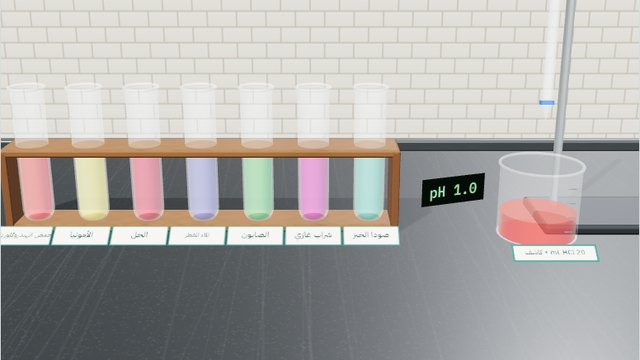
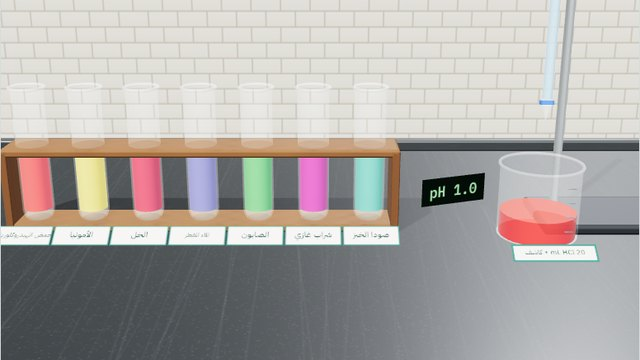
تجارب ثاني متوسط: سوائل ملوّنة واضحة بدل الشفافة، وإظهار السكر غير الذائب والبلورات
Claude-Session: https://claude.ai/code/session_01NyLPbdMt9tKVxRtmHnQprV

diff --git a/lab/lab3d-pro.js b/lab/lab3d-pro.js
@@ -2050,16 +2050,19 @@ TB.forEach(tb=>setRust(tb.k,0));sync();render();renderNB();
    ١٧) الذائبية والمحاليل المشبعة وفوق المشبعة (المخاليط والمحاليل)
    ١٨) الكاشف الطبيعي والتعادل (المحاليل الحمضية والقاعدية)
    ===================================================================== */
+const VIV=(c,op=.93)=>new THREE.MeshStandardMaterial({color:$lc(c),emissive:$lc(c),emissiveIntensity:.18,roughness:.22,transparent:true,opacity:op,depthWrite:false});
+const vset=(m,h)=>{m.color.copy($lc(h));if(m.emissive)m.emissive.copy(m.color);};
+function vivTube(t){t.g.traverse(x=>{if(x.isMesh&&x.material===G.glassT)x.material=G.glass;if(x.isMesh&&x.material===t.lm){x.material=VIV(0xd6ecf5,.6);t.lm=x.material;}});return t;}
 function Beaker(r=.34,h=.62,o={}){const g=new THREE.Group();
   const gl=new THREE.Mesh(new THREE.CylinderGeometry(r,r,h,40,1,true),G.glass);gl.position.y=h/2;gl.renderOrder=3;
   const bt=new THREE.Mesh(new THREE.CircleGeometry(r,40),G.glassS);bt.rotation.x=-Math.PI/2;bt.position.y=.004;
   const lip=new THREE.Mesh(new THREE.TorusGeometry(r+.004,.012,8,40),G.glassS);lip.rotation.x=Math.PI/2;lip.position.y=h;
-  const lm=G.water(o.col||0xbfe2f0,o.op||.5);const liq=new THREE.Mesh(new THREE.CylinderGeometry(r*.95,r*.95,1,36),lm);liq.renderOrder=1;liq.visible=false;
+  const lm=VIV(o.col||0x6fb8e0,o.op||.9);const liq=new THREE.Mesh(new THREE.CylinderGeometry(r*.95,r*.95,1,36),lm);liq.renderOrder=1;liq.visible=false;
   g.add(gl,bt,lip,liq);
   for(let i=1;i<=4;i++){const t=new THREE.Mesh(new THREE.BoxGeometry(.06,.006,.004),KIT.mat(0x5d6d73));t.position.set(r*.55,h*i/5,r*.84);g.add(t);}
   const set=lv=>{liq.visible=lv>.003;liq.scale.y=Math.max(.001,lv);liq.position.y=lv/2+.006;};
   return {g,lm,set,r,h,liq};}
-function Drops(L,n=26,col=0x8fd0ee,size=.018){const im=new THREE.InstancedMesh(new THREE.SphereGeometry(size,8,6),G.water(col,.85),n);im.count=0;im.frustumCulled=false;L.add(im);
+function Drops(L,n=26,col=0x8fd0ee,size=.018){const im=new THREE.InstancedMesh(new THREE.SphereGeometry(size,8,6),VIV(col,.95),n);im.count=0;im.frustumCulled=false;L.add(im);
   const d=new THREE.Object3D();let on=false,src=V(0,0,0),dst=0,t0=0;
   P3.loop(L,(dt,s)=>{if(!on){im.count=0;return;}im.count=n;for(let i=0;i<n;i++){const p=((s-t0)*1.6+i/n)%1;d.position.set(src.x+Math.sin(i*7)*.02,src.y-(src.y-dst)*p,src.z+Math.cos(i*5)*.02);d.scale.set(1,1.5,1);d.updateMatrix();im.setMatrixAt(i,d.matrix);}im.instanceMatrix.needsUpdate=true;});
   return {start:(p,y)=>{src=p.clone();dst=y;on=true;t0=performance.now()/1000;},stop:()=>{on=false;}};}
@@ -2113,7 +2116,7 @@ function hState(k,w){return k==='a'?[1-Math.min(1,w/3.3),Math.min(1,Math.max(0,(
 // إبريق الري
 const can=new THREE.Group();{const b=new THREE.Mesh(new THREE.CylinderGeometry(.16,.18,.3,24),KIT.phys(0x2f8f6b));b.position.y=.15;const sp=new THREE.Mesh(new THREE.CylinderGeometry(.018,.03,.42,10),KIT.phys(0x2f8f6b));sp.rotation.z=-1.0;sp.position.set(.28,.22,0);
   const hd=new THREE.Mesh(new THREE.TorusGeometry(.1,.018,8,20,Math.PI),KIT.phys(0x2f8f6b));hd.position.set(-.1,.3,0);hd.rotation.z=.6;can.add(b,sp,hd);castAll(can);}
-const CAN_HOME=V(2.4,0,.6);can.position.copy(CAN_HOME);L.add(can);const drops=Drops(L,22);
+const CAN_HOME=V(2.4,0,.6);can.position.copy(CAN_HOME);L.add(can);const drops=Drops(L,22,0x3f9fe0,.022);
 async function water(i){const o=P[PL[i].k];await L.arc(can,V(o.x-.55,.95,.35),700,1.4);await L.tw(250,k=>can.rotation.z=-.7*k);drops.start(V(o.x-.18,1.05,.35),.46);
   o.soil.material.color.copy($lc(0x2e2016));await sleep(650);drops.stop();await L.tw(250,k=>can.rotation.z=-.7*(1-k));}
 async function setW(i){if(S.busy||S.set[i])return;S.busy=true;sync();await water(i);await L.arc(can,CAN_HOME,600,1.4);S.set[i]=1;S.busy=false;P3.click();
@@ -2256,13 +2259,13 @@ const toast=m=>L.toast(m);
 const hp=new THREE.Group();{const b=new THREE.Mesh(RBox(.95,.16,.8,.04),KIT.mat(0xe9ecee,{roughness:.4}));b.position.y=.08;const p=new THREE.Mesh(new THREE.CylinderGeometry(.36,.36,.02,32),KIT.mat(0x30363c,{metalness:.5}));p.position.y=.17;
   const k=new THREE.Mesh(new THREE.CylinderGeometry(.05,.05,.04,16),KIT.mat(0x1f2933));k.rotation.x=Math.PI/2;k.position.set(.3,.08,.41);hp.add(b,p,k);hp.userData.p=p;castAll(hp);}
 hp.position.set(0,0,.4);L.add(hp);
-const BK=Beaker(.32,.6);BK.g.position.set(0,.18,.4);BK.set(.3);L.add(BK.g);
+const BK=Beaker(.32,.6,{op:.55});BK.g.position.set(0,.18,.4);BK.set(.3);L.add(BK.g);
 const card=P3.card([{t:'100 جم ماء',s:64}],.5,.16);card.position.set(0,.06,1.05);card.rotation.x=-.9;L.add(card);
 const th=new THREE.Group();{const t=new THREE.Mesh(new THREE.CylinderGeometry(.012,.012,.9,10),G.glassS);t.position.y=.45;const r=new THREE.Mesh(new THREE.CylinderGeometry(.006,.006,1,8),KIT.mat(0xd62d20));th.userData.r=r;const bl=new THREE.Mesh(new THREE.SphereGeometry(.02,12,8),KIT.mat(0xd62d20));bl.position.y=.02;th.add(t,r,bl);}
 th.position.set(.15,.2,.35);th.rotation.z=-.12;L.add(th);
 const setTh=T=>{const h=.15+.6*T/100;th.userData.r.scale.y=h;th.userData.r.position.y=h/2;};
-const pile=new THREE.Mesh(new THREE.ConeGeometry(.2,.1,24),KIT.mat(0xfbfbf7,{roughness:.9}));pile.position.set(0,.24,.4);pile.visible=false;L.add(pile);
-const CR=new THREE.InstancedMesh(new THREE.BoxGeometry(.03,.03,.03),KIT.phys(0xffffff,{roughness:.15,transparent:true,opacity:.9}),40);CR.count=0;CR.position.set(0,.18,.4);L.add(CR);
+const pile=new THREE.Mesh(new THREE.ConeGeometry(.2,.1,24),KIT.mat(0xfbfbf7,{roughness:.9}));pile.position.set(0,.24,.4);pile.visible=false;pile.renderOrder=2;L.add(pile);
+const CR=new THREE.InstancedMesh(new THREE.BoxGeometry(.03,.03,.03),KIT.phys(0xffffff,{roughness:.15,transparent:true,opacity:.9}),40);CR.count=0;CR.renderOrder=2;CR.position.set(0,.18,.4);L.add(CR);
 const spoon=new THREE.Group();{const h=new THREE.Mesh(new THREE.CylinderGeometry(.012,.012,.5,8),M.steel);h.rotation.z=Math.PI/2;h.position.x=.25;const b=new THREE.Mesh(new THREE.SphereGeometry(.06,16,10,0,Math.PI*2,Math.PI/2,Math.PI/2),M.steel);const s=new THREE.Mesh(new THREE.SphereGeometry(.05,12,8),KIT.mat(0xffffff,{roughness:.9}));s.scale.y=.4;s.position.y=-.01;spoon.add(h,b,s);spoon.userData.s=s;castAll(spoon);}
 const SP_HOME=V(-1.1,.3,.7);spoon.position.copy(SP_HOME);L.add(spoon);
 const jar=new THREE.Group();{const j=new THREE.Mesh(new THREE.CylinderGeometry(.18,.18,.36,24),KIT.phys(0xf5f5f0,{transparent:true,opacity:.6}));j.position.y=.18;const s=new THREE.Mesh(new THREE.CylinderGeometry(.17,.17,.28,24),KIT.mat(0xffffff,{roughness:.95}));s.position.y=.14;const l=new THREE.Mesh(new THREE.CylinderGeometry(.19,.19,.05,24),KIT.mat(0x2f6fb2));l.position.y=.38;jar.add(j,s,l);castAll(jar);}
@@ -2271,7 +2274,7 @@ function state(){const cap=sol(S.temp);const dis=S.seed?S.added-S.cry:(S.sup&&S.
   const st=S.added===0?'غير مشبع':(S.sup&&S.cool&&!S.seed&&S.added>cap+1)?'فوق مشبع':(und>.5||Math.abs(dis-cap)<1)?'مشبع':'غير مشبع';return {cap,dis,und,st};}
 function hud(){const s=state();sec.$('.slT').textContent=Math.round(S.temp)+' °C';sec.$('.slA').textContent=S.added+' g';sec.$('.slD').textContent=Math.round(s.dis)+' g';sec.$('.slS').textContent=s.st;
   pile.visible=s.und>.5&&!S.seed;if(pile.visible){const k=Math.sqrt(s.und/50);pile.scale.set(k,k,k);pile.position.y=.19+.05*k;}
-  setCol(BK.lm,mixHex(0xbfe2f0,0xf3f1e6,Math.min(1,s.dis/300)));setTh(S.temp);
+  vset(BK.lm,mixHex(0x3f9bd8,0xc99a3e,Math.min(1,s.dis/300)));setTh(S.temp);
   sec.$('.slChart').innerHTML=KIT.chart({w:330,h:200,xl:'درجة الحرارة (°س)',yl:'جم/100 جم ماء',xmin:0,xmax:100,ymin:0,ymax:500,series:[{c:'var(--brand)',name:'منحنى الذائبية',pts:CURVE},{c:'#e0473c',name:'محلولك',pts:[[S.temp,Math.round(s.dis)]],dots:true}]});}
 function rec(lbl){const s=state();S.rows.push([lbl,String(Math.round(S.temp)),String(S.added),String(Math.round(s.dis)),s.st]);renderNB();}
 async function add(){if(S.busy||S.added>=250||S.heat)return;S.busy=true;sync();await L.arc(spoon,V(-1.25,.55,.35),500,.7);spoon.userData.s.visible=true;await L.arc(spoon,V(-.12,.95,.4),700,1.1);
@@ -2323,34 +2326,34 @@ const sec=P3.section('cab8',{title:'الكاشف الطبيعي (الملفوف 
   report:()=>({title:'الكاشف الطبيعي والتعادل',grade:'ثاني متوسط',lesson:'المحاليل الحمضية والمحاليل القاعدية',cols:['المحلول','لون الكاشف','التصنيف'],
     rows:SOLS.map((s,i)=>[s.n,S.drops[i]?CABC[s.c][1].replace(/^/,''):'',S.drops[i]?(s.c<3?'حمضي':s.c>3?'قاعدي':'متعادل'):'']),note:'رتّب المحاليل من الأشد حمضية إلى الأشد قاعدية.'})
 });
-const L=new Lab(sec,{target:V(.1,.55,.45),dist:a=>Math.max(4.2,7.0/a),exposure:.95});buildRoom(L);
+const L=new Lab(sec,{target:V(-.2,.55,.45),dist:a=>Math.max(4.3,7.1/a),exposure:.95});buildRoom(L);
 const toast=m=>L.toast(m);
 const rack=new THREE.Group();{const t=new THREE.Mesh(RBox(3.0,.06,.36,.02),KIT.wood(0x9b6a3c));t.position.y=.62;const b=new THREE.Mesh(RBox(3.0,.06,.36,.02),KIT.wood(0x9b6a3c));b.position.y=.03;rack.add(t,b);[-1.47,1.47].forEach(x=>{const s=new THREE.Mesh(RBox(.06,.62,.36,.01),KIT.wood(0x8a5a32));s.position.set(x,.33,0);rack.add(s);});castAll(rack);}
 rack.position.set(-.8,0,.25);L.add(rack);
-const TT=SOLS.map((s,i)=>{const x=-2.1+i*.43,t=TestTube(.12,.95);t.g.position.set(x,.14,.25);t.seg(0,.45);setCol(t.lm,s.n==='الصابون'?0xeef0ff:0xe6f3f8);t.lm.opacity=.5;L.add(t.g);
+const TT=SOLS.map((s,i)=>{const x=-2.1+i*.43,t=vivTube(TestTube(.12,.95));t.g.position.set(x,.14,.25);t.seg(0,.45);vset(t.lm,s.n==='الصابون'?0xe9ecf7:0xd6ecf5);t.lm.opacity=.6;L.add(t.g);
   const c=P3.card([{t:s.n,s:s.n.length>10?62:80}],.42,.17);c.position.set(x,.05,.62);c.rotation.x=-.95;L.add(c);L.onTap(t.g,()=>tapTube(i));return {t,x};});
 const dropper=new THREE.Group();{const g=new THREE.Mesh(new THREE.CylinderGeometry(.02,.012,.3,12),G.glassS);g.position.y=.15;const b=new THREE.Mesh(new THREE.SphereGeometry(.045,14,10),KIT.mat(0x2b2b2b));b.position.y=.33;b.scale.y=1.4;dropper.add(g,b);castAll(dropper);}
 const DR_HOME=V(-2.6,.6,.95);dropper.position.copy(DR_HOME);L.add(dropper);
 const bottle=Beaker(.12,.3,{col:0x5b2a86,op:.85});bottle.set(.22);bottle.g.position.set(-2.6,0,.95);L.add(bottle.g);const bc=P3.card([{t:'عصير الملفوف',s:50}],.42,.12);bc.position.set(-2.6,.05,1.2);bc.rotation.x=-.9;L.add(bc);
 const drops=Drops(L,12,0x6b2fa0,.014);
 // التعادل
-const NB=Beaker(.3,.55);NB.g.position.set(1.75,0,.45);NB.set(.18);setCol(NB.lm,CABC[0][0]);NB.lm.opacity=.7;L.add(NB.g);
+const NB=Beaker(.3,.55);NB.g.position.set(1.75,0,.45);NB.set(.18);vset(NB.lm,CABC[0][0]);L.add(NB.g);
 const nc=P3.card([{t:'20 mL HCl + كاشف',s:44}],.6,.14);nc.position.set(1.75,.05,.95);nc.rotation.x=-.9;L.add(nc);
 const ST=KIT.stand(2.2);ST.position.set(2.35,0,.15);L.add(ST);
 const bur=new THREE.Group();{const t=new THREE.Mesh(new THREE.CylinderGeometry(.04,.04,1.1,16,1,true),G.glass);t.position.y=.55;t.renderOrder=3;const tip=new THREE.Mesh(new THREE.ConeGeometry(.04,.12,16),G.glassS);tip.rotation.x=Math.PI;tip.position.y=-.06;
-  const lm=G.water(0xd8eef8,.6);const lq=new THREE.Mesh(new THREE.CylinderGeometry(.035,.035,1,14),lm);bur.userData.lq=lq;const v=new THREE.Mesh(new THREE.BoxGeometry(.1,.03,.03),KIT.mat(0x1f6feb));v.position.y=.02;bur.add(t,tip,lq,v);}
+  const lm=VIV(0xb9dcef,.85);const lq=new THREE.Mesh(new THREE.CylinderGeometry(.035,.035,1,14),lm);bur.userData.lq=lq;const v=new THREE.Mesh(new THREE.BoxGeometry(.1,.03,.03),KIT.mat(0x1f6feb));v.position.y=.02;bur.add(t,tip,lq,v);}
 bur.position.set(1.75,1.0,.45);L.add(bur);const setBur=()=>{const f=1-S.vb/50;bur.userData.lq.scale.y=f;bur.userData.lq.position.y=.05+f/2;};setBur();
 const bl=P3.card([{t:'NaOH 0.1 mol/L',s:48,mono:true}],.5,.12);bl.position.set(1.75,2.25,.45);L.add(bl);
 const meter=KIT.lcd(.5,.2);meter.m.position.set(1.05,.45,.75);meter.m.rotation.y=.35;L.add(meter.m);meter.set('pH 1.0');
 async function tapTube(i){if(S.busy||S.drops[i])return;S.busy=true;const o=TT[i];await L.arc(dropper,V(-2.6,.5,.95),400,.9);await L.arc(dropper,V(o.x,1.2,.25),700,1.3);drops.start(V(o.x,1.18,.25),.6);
-  const c0=new THREE.Color(o.t.lm.color),c1=$lc(CABC[SOLS[i].c][0]);await L.tw(900,k=>{o.t.lm.color.copy(c0).lerp(c1,k);o.t.lm.opacity=.5+.35*k;});drops.stop();await L.arc(dropper,DR_HOME,500,1.3);
+  const c0=new THREE.Color(o.t.lm.color),c1=$lc(CABC[SOLS[i].c][0]);await L.tw(900,k=>{o.t.lm.color.copy(c0).lerp(c1,k);o.t.lm.emissive.copy(o.t.lm.color);o.t.lm.opacity=.6+.36*k;});drops.stop();await L.arc(dropper,DR_HOME,500,1.3);
   S.drops[i]=1;S.busy=false;P3.click();if(S.drops.every(Boolean))toast('أُضيف الكاشف إلى المحاليل السبعة. رتّبها الآن مستعينًا بجدول الألوان.');sync();render();renderNB();}
 function pick(i){if(S.busy||!S.drops.every(Boolean)||S.picked.length>=7)return;if(ORDER[S.picked.length]===i){S.picked.push(i);P3.click();if(S.picked.length===7){P3.good();toast('ترتيب صحيح! الماء المقطر الأقرب إلى التعادل، والأمونيا الأقوى قاعدية.');}}else toast('ليس هذا دوره؛ قارن لون الأنبوب بجدول الألوان.');sync();render();}
 async function addB(v){if(S.busy||S.picked.length<7||S.neut)return;if(S.vb+v>20.001){toast('ستتجاوز نقطة التعادل! أضف كمية أصغر.');return;}S.busy=true;sync();drops.start(V(1.75,.92,.45),.25);const v0=S.vb,v1=Math.round((S.vb+v)*10)/10;
-  const c0=new THREE.Color(NB.lm.color);await L.tw(600+v*120,k=>{S.vb=v0+(v1-v0)*k;setBur();NB.set(.18+.12*S.vb/20);const p=pH(S.vb);sec.$('.cbV').textContent=S.vb.toFixed(1)+' mL';sec.$('.cbP').textContent=p.toFixed(1);meter.set('pH '+p.toFixed(1));NB.lm.color.copy(c0).lerp($lc(CABC[byPH(p)][0]),k);});
+  const c0=new THREE.Color(NB.lm.color);await L.tw(600+v*120,k=>{S.vb=v0+(v1-v0)*k;setBur();NB.set(.18+.12*S.vb/20);const p=pH(S.vb);sec.$('.cbV').textContent=S.vb.toFixed(1)+' mL';sec.$('.cbP').textContent=p.toFixed(1);meter.set('pH '+p.toFixed(1));NB.lm.color.copy(c0).lerp($lc(CABC[byPH(p)][0]),k);NB.lm.emissive.copy(NB.lm.color);});
   drops.stop();S.vb=v1;S.pts.push([v1,+pH(v1).toFixed(2)]);if(Math.abs(v1-20)<1e-6){S.neut=true;P3.good();toast('pH = 7: تعادل الحمض مع القاعدة فتكوّن ملح وماء.');}S.busy=false;sync();render();renderNB();}
-function rz(){if(S.busy)return;S.vb=0;S.neut=false;S.pts=[[0,1]];setBur();NB.set(.18);setCol(NB.lm,CABC[0][0]);sec.$('.cbV').textContent='0.0 mL';sec.$('.cbP').textContent='1.0';meter.set('pH 1.0');sync();render();renderNB();}
-function reset(){if(S.busy)return;S.drops=SOLS.map(()=>0);S.picked=[];TT.forEach((o,i)=>{setCol(o.t.lm,SOLS[i].n==='الصابون'?0xeef0ff:0xe6f3f8);o.t.lm.opacity=.5;});rz();toast('أُعيدت التجربة.');}
+function rz(){if(S.busy)return;S.vb=0;S.neut=false;S.pts=[[0,1]];setBur();NB.set(.18);vset(NB.lm,CABC[0][0]);sec.$('.cbV').textContent='0.0 mL';sec.$('.cbP').textContent='1.0';meter.set('pH 1.0');sync();render();renderNB();}
+function reset(){if(S.busy)return;S.drops=SOLS.map(()=>0);S.picked=[];TT.forEach((o,i)=>{vset(o.t.lm,SOLS[i].n==='الصابون'?0xe9ecf7:0xd6ecf5);o.t.lm.opacity=.6;});rz();toast('أُعيدت التجربة.');}
 function stepIdx(){if(!S.drops.every(Boolean))return 0;if(S.picked.length<7)return 1;return 2;}
 function render(){const k=stepIdx();let title,html;
   if(k===0){title='أضف الكاشف الطبيعي';html=`<p class="p3-txt">في الأنابيب سبعة محاليل منزلية. اضغط على كل أنبوب لتضيف إليه 10 قطرات من عصير الملفوف البنفسجي، ولاحظ اللون (${S.drops.filter(Boolean).length} / 7).</p>`;}
